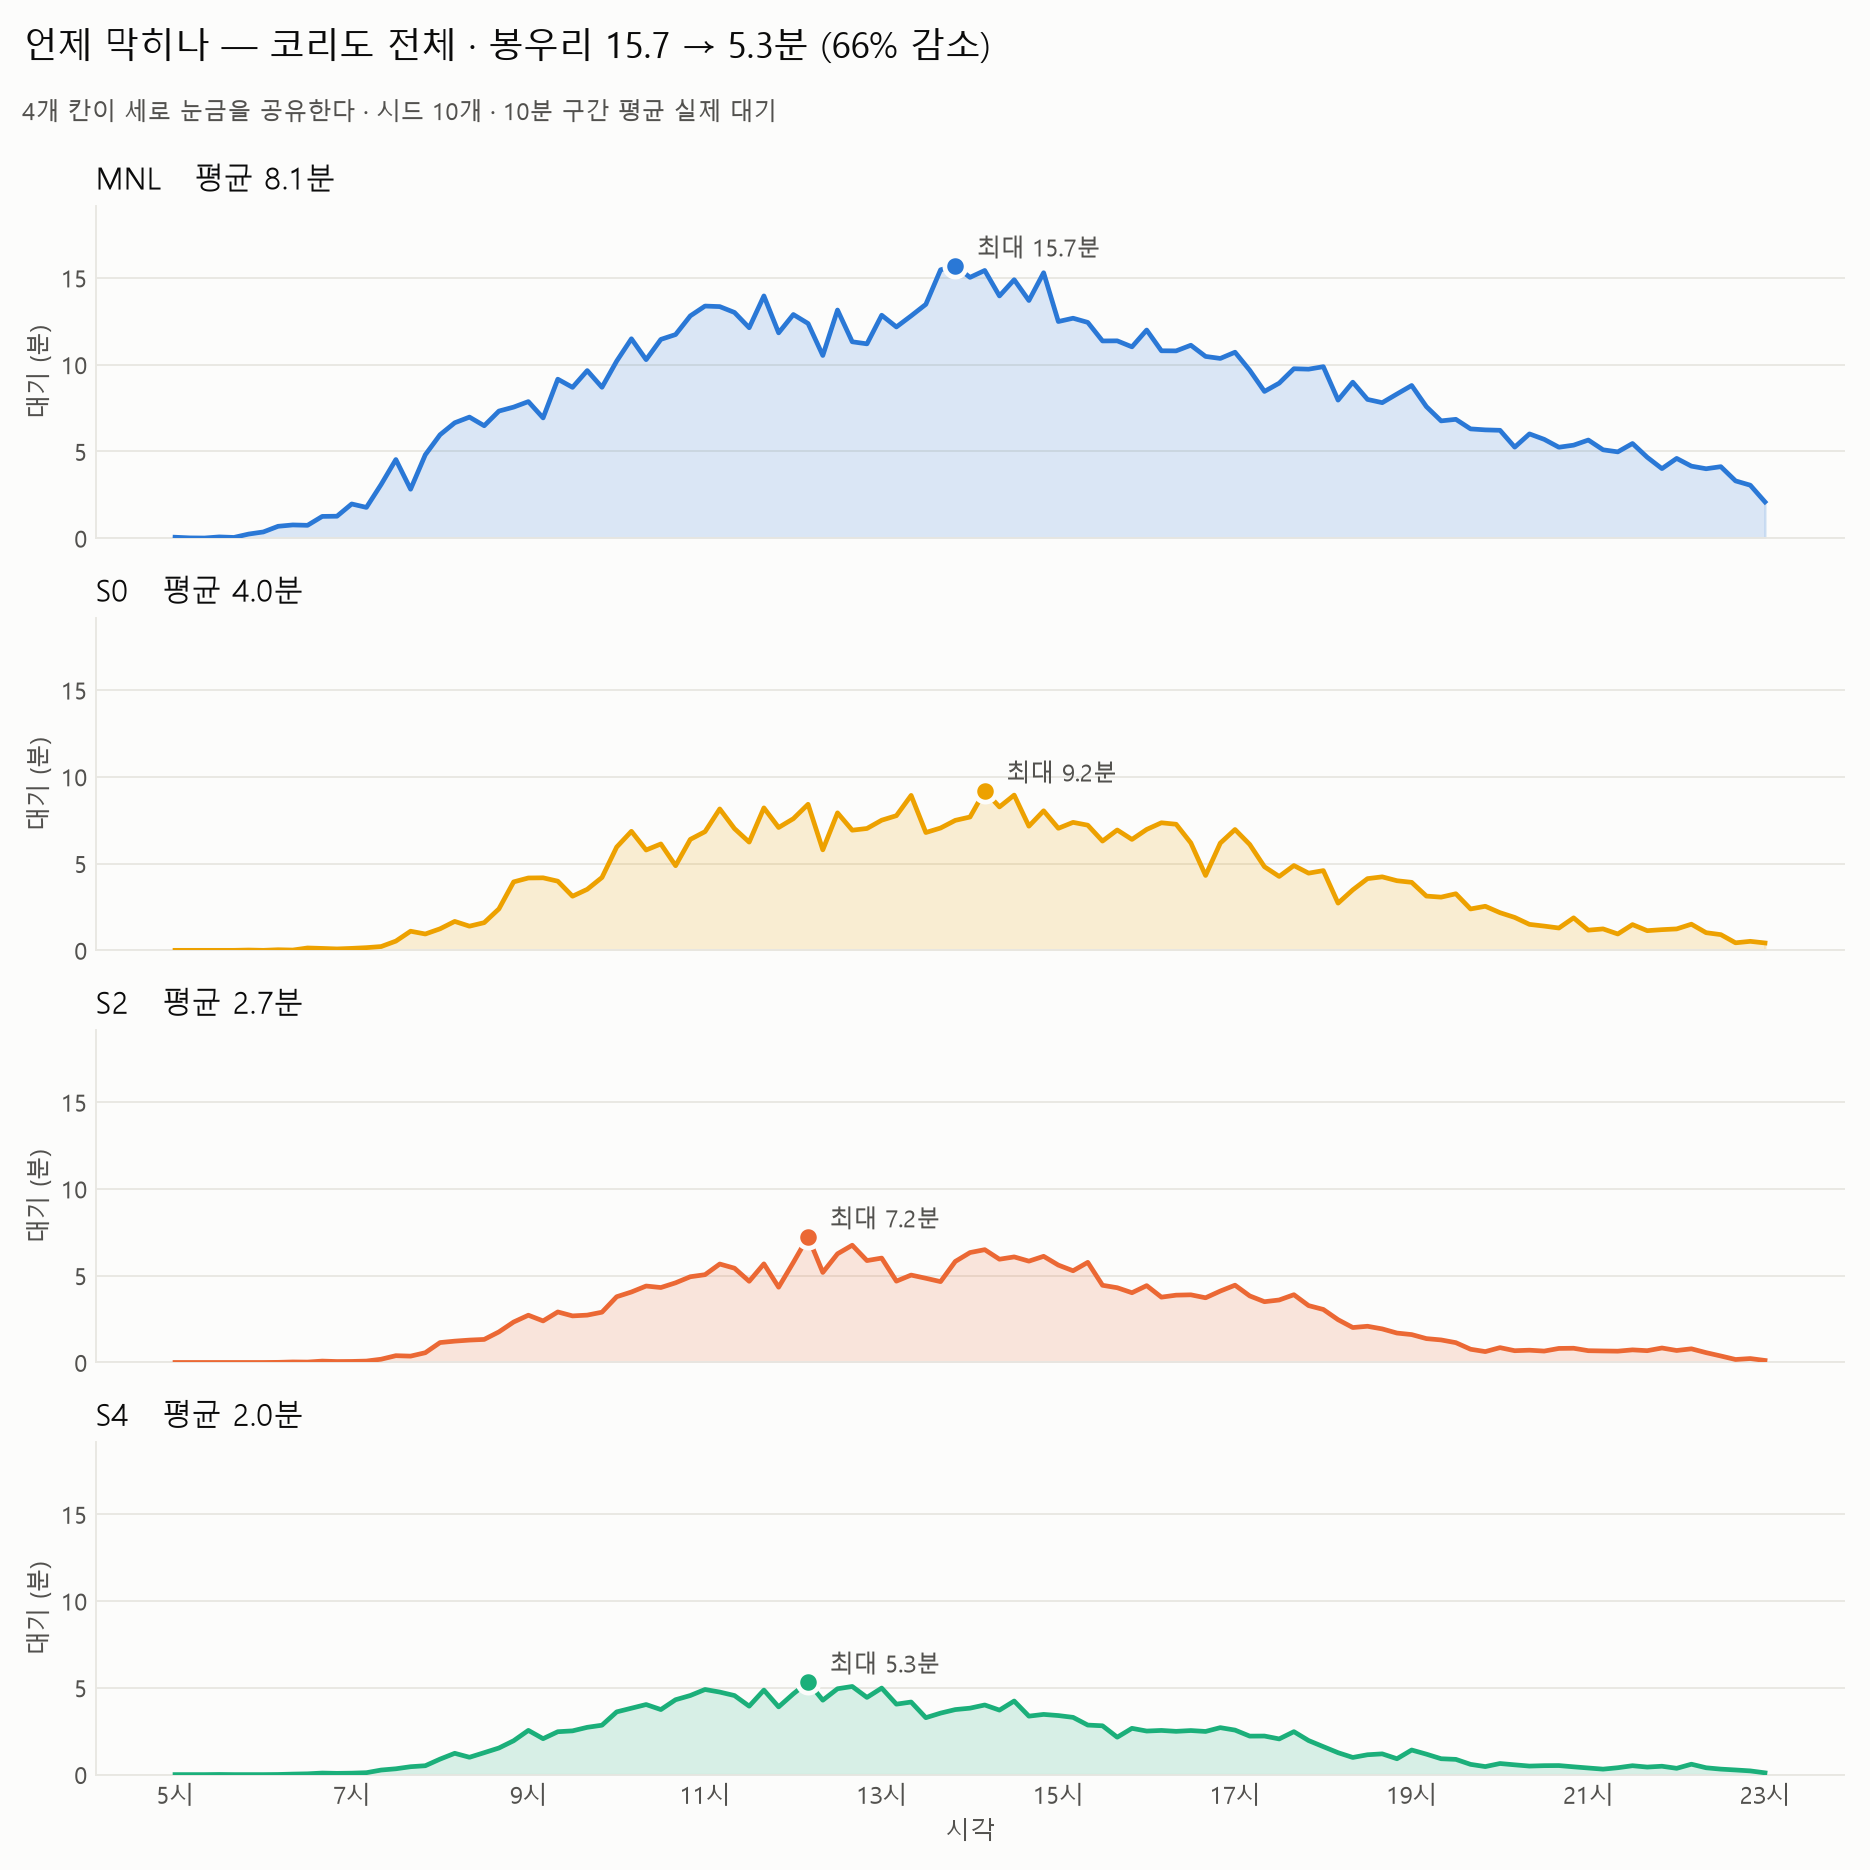
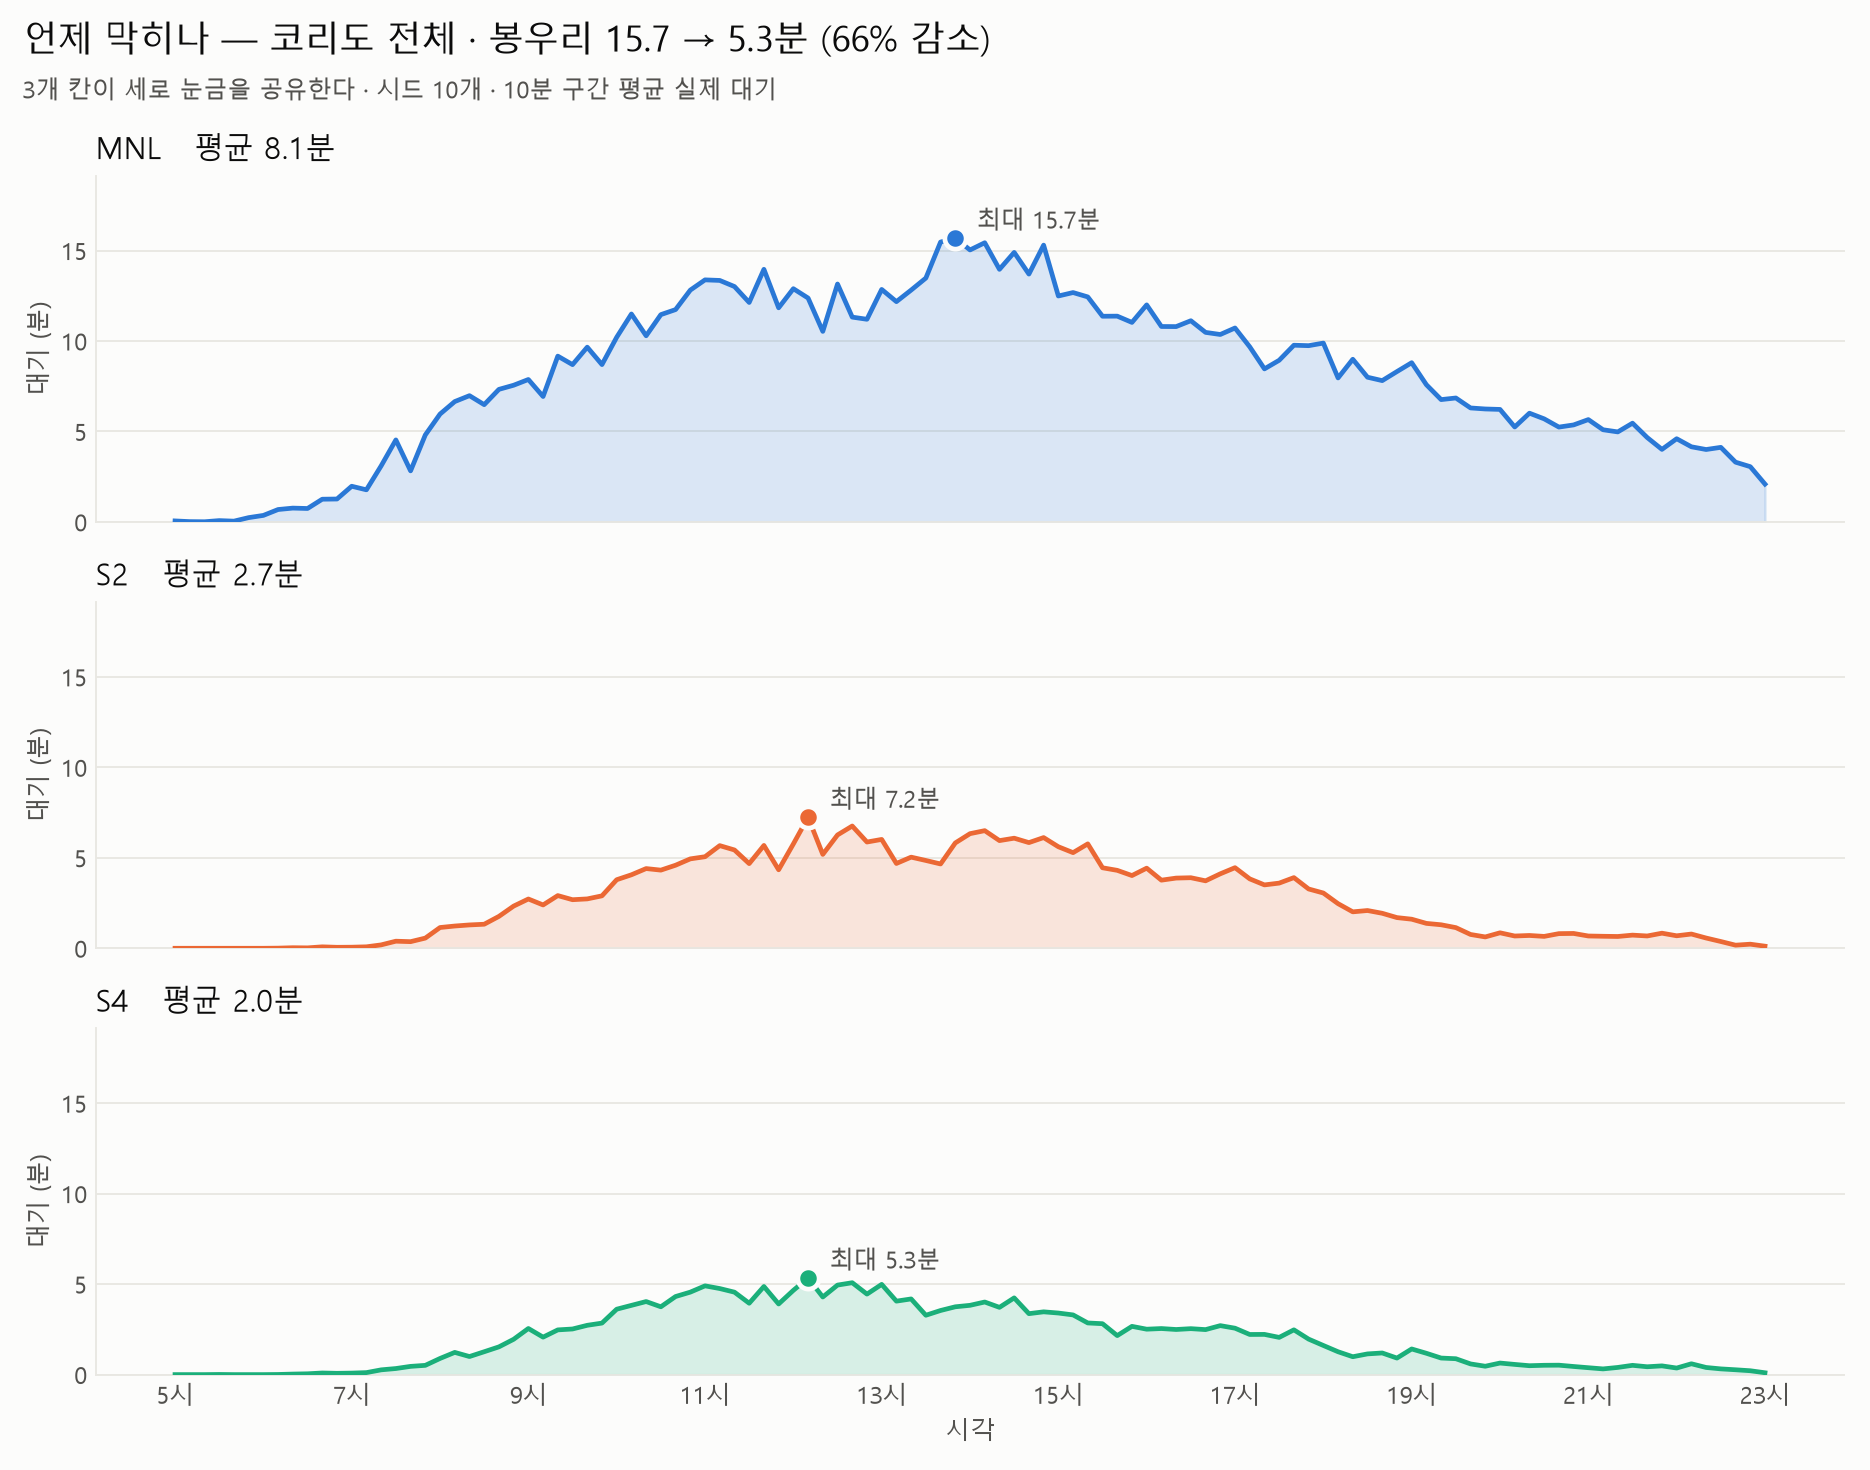
docs: §6 검증표 재작성 — E5 재분류, E7·E8 신설, I2 의 실제 상태 기록
`docs/validation_plan_20261111.txt` 의 표를 갱신한다. 번호(E1~E6 · I1~I5)는
그대로 쓰고 E7·E8 을 더했다.

## 바뀐 것

· **E5 충전 세션: FAIL -> 조건부 PASS.** 전에 "경과시간이 실측보다 58% 짧다 —
  알려진 결함" 이라고 적었는데 **그 비교가 틀렸다.** 환경부 원장은 느린
  충전기의 세션만 담는다 (100kW 이하 81.5%, 우리 모델은 29.8%).
  같은 출력대로 견주면 유효 출력 49.9 vs 49.0 kW — **+1.8%, 속도는 맞다.**
  남는 것은 세션당 양이 10~15% 적은 것이고 원인은 `habit_soc` 다

· **E7 휴게소 분배 신설.** #167 원장을 직접 집계해서 가능해졌다.
  공공 100% 휴게소 5곳에서 TVD 0.272 (MNL) vs 0.306 (S0) — 부분 PASS.
  ★ 실측 점유율을 그대로 쓰면 안 된다 — 보정 없이 재면 0.396 인데 그 오차는
  공공 보급률과 상관 -0.767 로 모델 잘못이 아니다

· **E8 충전기 이용률 신설.** 워터 자료 (사전 등록 기준 있음). 재현 무대
  19.3% vs 실측 33.5% — 미달. ⚠ EV 10% 무대(73.4%)를 이 값과 견주면 안 된다

· **E6 뉴스 PASS.** P95 26.5분 (S0) · 43.7분 (MNL) vs 보도 20~40분.
  평균이 아니라 P95 로 견준다 — 보도의 "30분" 은 막힌 시간대에 간 사람이다

· **I2 는 전에 PASS 로 적었지만 실제로는 깨져 있었다.** 사다리는 세 항인데
  MNL 바닥을 내는 `run_mnl_world.py` 는 두 항만 셌다. 고쳤고, 교훈을 적었다 —
  "한 곳에 있다" 를 **코드로** 확인해야 한다

· **I3 7시드 -> 10시드 PASS**
· **I5 손잡이 6개로 확장** — θ · w · 기회충전 prob · habit_soc · 지각 출력 ·
  이탈 가격. ★ 기회충전이 대표 숫자의 82% 를 진다는 것을 표에 박았다

## 더한 절

· §3 발표에서 **쓸 수 있는 문장 / 쓰면 안 되는 문장** 각 5개
· §5 쏠림 "모양" 의 **물리적 상한** — 평균 이용률 73.4% 면 최대/평균은 1.36배가
  천장이고 모델은 1.21배로 이미 닿아 있다. 10.5배는 어떤 손잡이로도 못 만든다.
  모델 결함이 아니라 포화의 물리다

## 그림

파형 기본값을 다시 MNL·S2·S4 3칸으로 (S0 는 `--stages S0,S2,S4` 로 선택).
색이 칸마다 묶여 있어 넣고 빼도 다른 칸 색이 안 바뀐다.

diff --git a/scripts/plot_wait_signal.py b/scripts/plot_wait_signal.py
@@ -91,7 +91,9 @@ def main() -> int:
     ap = argparse.ArgumentParser(
         description=__doc__, formatter_class=argparse.RawDescriptionHelpFormatter)
     ap.add_argument("--config", default="config/scenario_chuseok_up_congested.yaml")
-    ap.add_argument("--stages", default="S0,S2,S4")
+    ap.add_argument("--stages", default="S2,S4",
+                    help="S0 도 넣을 수 있다 (`--stages S0,S2,S4`) — 색은 칸마다 "
+                         "묶여 있어 넣고 빼도 다른 칸의 색이 안 바뀐다")
     ap.add_argument("--seeds", default="1-10")
     ap.add_argument("--mnl-dir",
                     default="runs/mnl_world/chuseok_congested_floor/theta0p05_w1p0")
